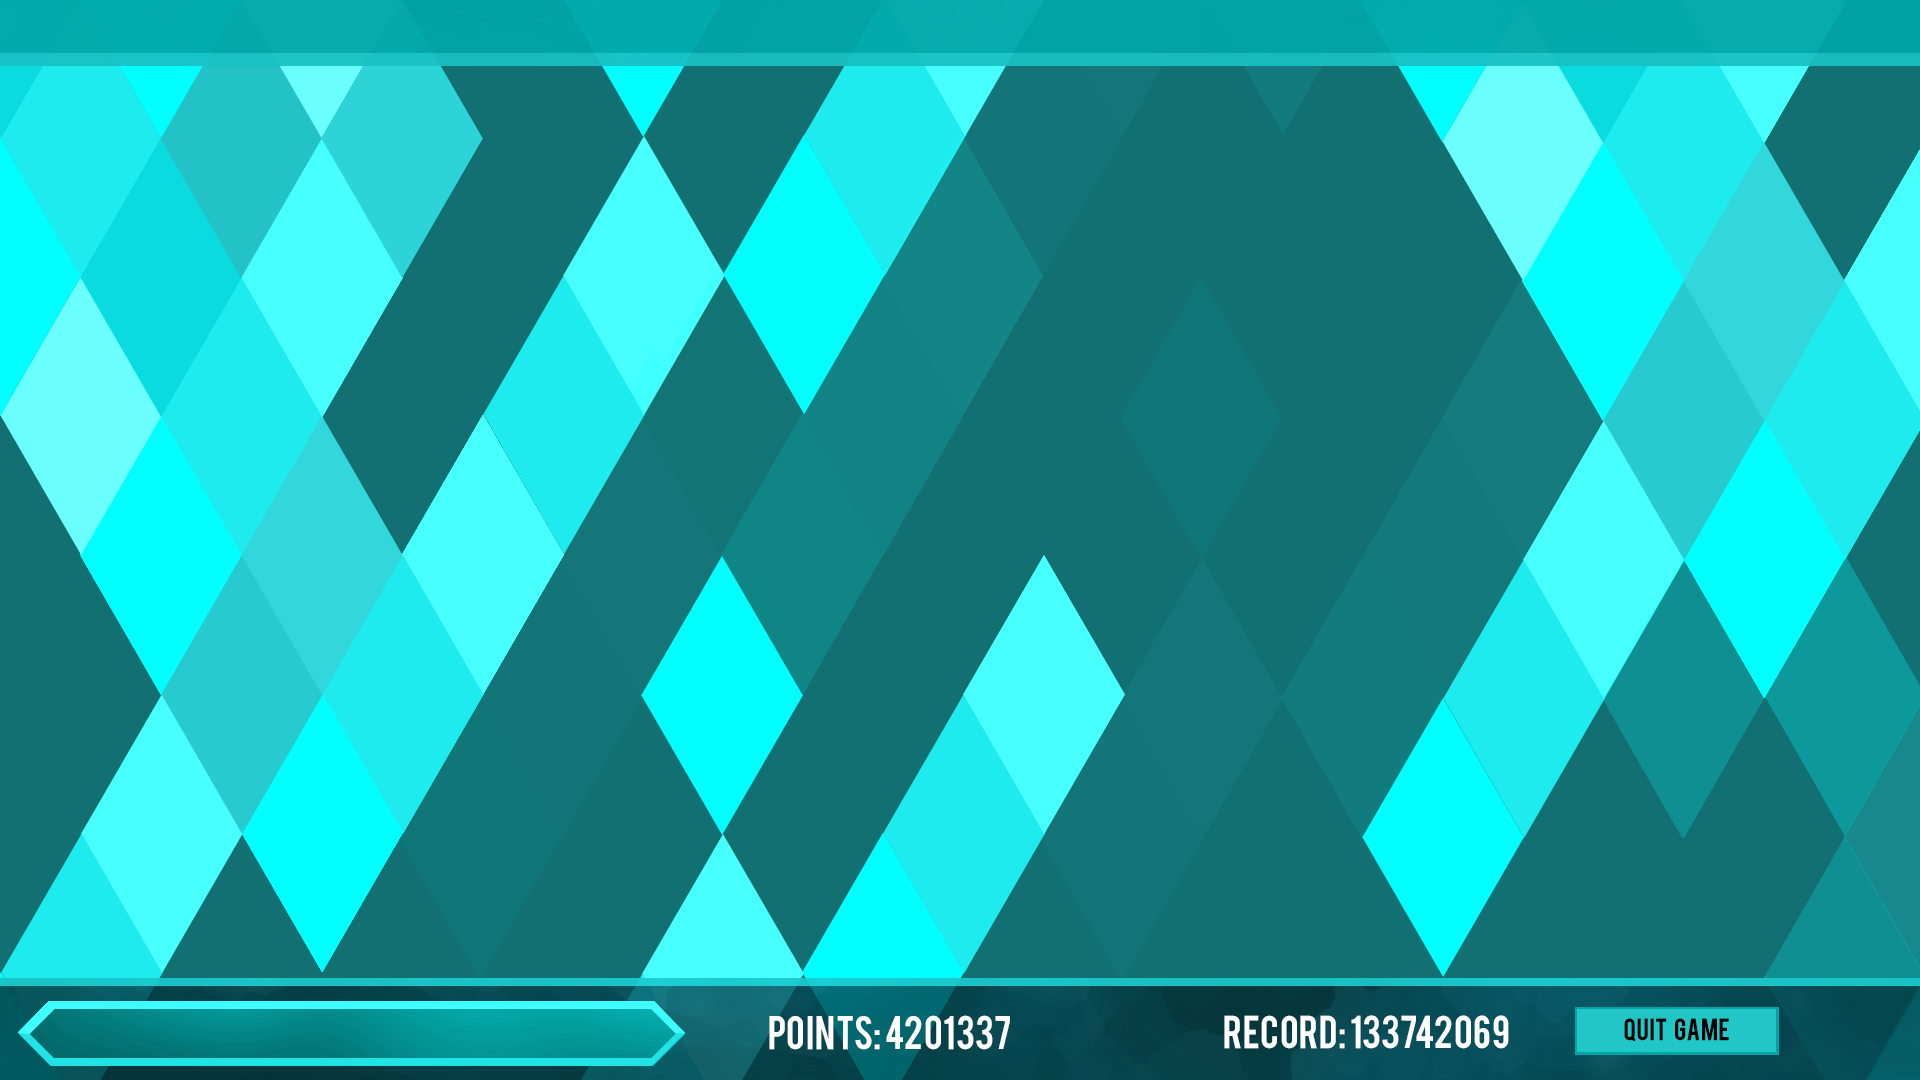
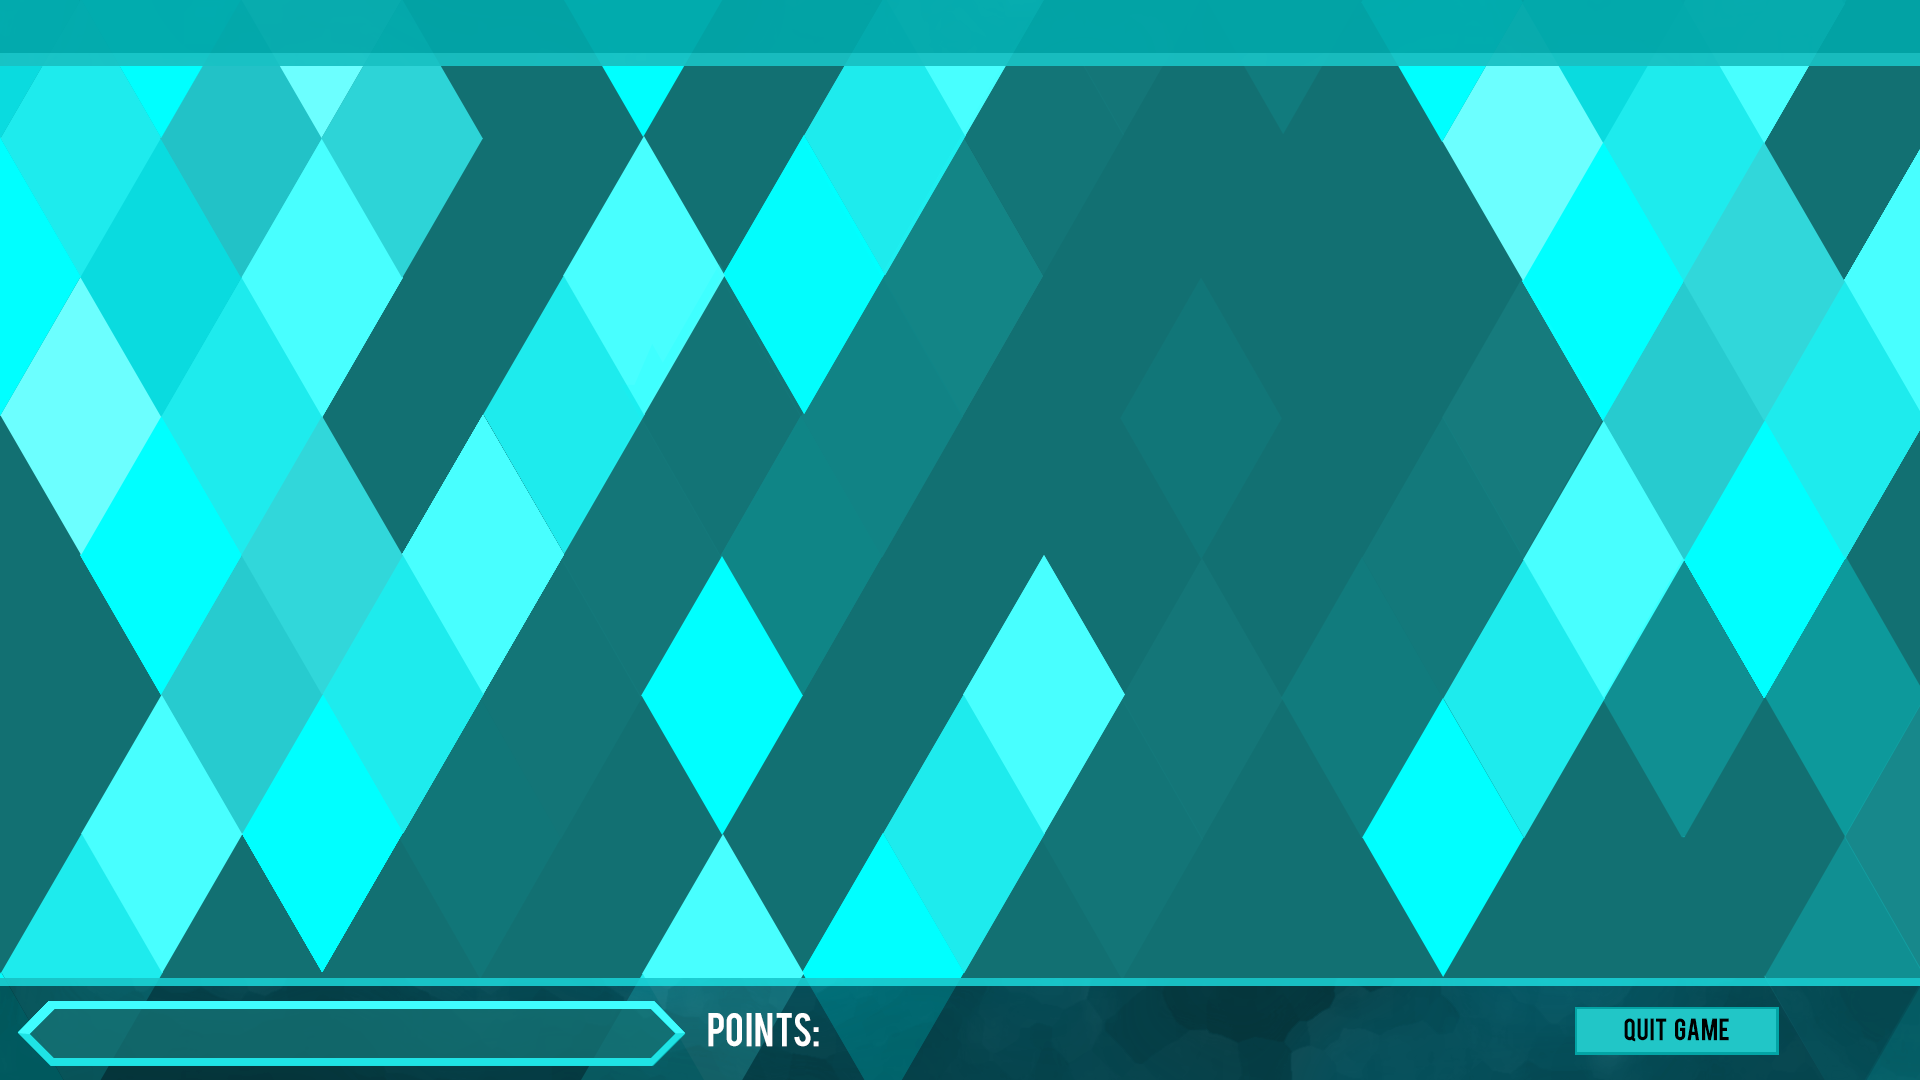
2017.06.14 cTile animations

Changed region(s): [[0.0625, 0.9167, 0.5312, 0.9778], [0.625, 0.9167, 0.7812, 0.9778]]

diff --git a/game.cpp b/game.cpp
@@ -15,22 +15,17 @@ cGame::cGame() //default constructor
 	:bricks(BRICKS_MAP_X, std::vector<cTile>(BRICKS_MAP_Y))
 {
 	done = false;
-//	opacity = 0;
 	currently_selected = 0;
 	score_count = 0;
 	game_state = REFRESH_GAME;
 	score = 0;
-	selection = false;
 	destroy_brick_flag = false;
-//	brick_size = BRICK_SIZE;
 	bricks_on_screen = BRICKS_MAP_X * BRICKS_MAP_Y;
 	area_width = BRICK_SIZE * BRICKS_MAP_X;
 	area_height = BRICK_SIZE * BRICKS_MAP_Y;
 	screen_width = SCREEN_X;//LEFT_MARGIN + area_width + RIGHT_MARGIN;
 	screen_height = SCREEN_Y;//TOP_MARGIN + area_height + DOWN_MARGIN;
-	left_game_area_margin = (screen_width - area_width) / 2;
-//	curFrame = 0;
-//	frameCount = 0;
+	//left_game_area_margin = (screen_width - area_width) / 2;
 	player_name = NULL;
 	al_init();
 	display = al_create_display(screen_width, screen_height);
@@ -93,7 +88,7 @@ cGame::cGame() //default constructor
 	button[MUSIC_MUTE_BUTTON].create(screen_width / 16+MUSIC_MUTE_X, screen_height / 4+MUSIC_MUTE_Y , 24, 24, GAME_AREA, ""); //remove magic numbers 414,580
 	button[SOUND_MUTE_BUTTON].create(screen_width - screen_width / 3+SOUND_MUTE_X, screen_height / 4 + SOUND_MUTE_Y, 24,24, GAME_AREA, "");//remove magic numbers 414,615
 	button[RESET_PROFILE_BUTTON].create(414, 655, 24, 24, GAME_AREA, "");//remove magic numbers
-	button[GAME_AREA_BUTTON].create(left_game_area_margin, TOP_MARGIN, area_width, area_height, GAME_AREA,"");
+	button[GAME_AREA_BUTTON].create(0, TOP_MARGIN, area_width, area_height, GAME_AREA,"");
 	button[OPTIONS_POPUP].create(screen_width / 16, screen_height / 4, al_get_bitmap_width(optionsPNG), al_get_bitmap_height(optionsPNG), RECTANGLE, "");//temp shit
 	button[HIGHSCORES_POPUP].create(screen_width / 16, screen_height / 4, al_get_bitmap_width(optionsPNG), al_get_bitmap_height(optionsPNG), RECTANGLE, "");//temp shit
 	button[NEW_STORY_BUTTON].opacity = 0.0;
@@ -130,18 +125,9 @@ void cGame::updateBrick()
 	for (int i = 0; i < BRICKS_MAP_Y; i++)
 		for (int t = 0; t < BRICKS_MAP_X; t++)
 		{
-			//if(bricks[t][i].state!=EMPTY)	
+			
 				bricks[t][i].update();
 		}
-}
-void cGame::drawScore()//draws score to the screen
-{
-	int f = 1;
-	//al_draw_textf(font36, BLACK, left_button_margin + BUTTON_WIDTH + 240-f, 8, ALLEGRO_ALIGN_RIGHT, " %i", on_screen_score);
-	//al_draw_textf(font36, BLACK, left_button_margin + BUTTON_WIDTH + 240+f, 8, ALLEGRO_ALIGN_RIGHT, " %i", on_screen_score);
-	al_draw_textf(font36, WHITE, left_button_margin  + 750, 1010, ALLEGRO_ALIGN_RIGHT, " %i", on_screen_score);
-	al_draw_textf(font36, WHITE, left_button_margin  + 200, 8, ALLEGRO_ALIGN_RIGHT, " selectionList.size:%i", selectionList.size());
-	al_draw_textf(font36, WHITE, left_button_margin  + 600, 8, ALLEGRO_ALIGN_RIGHT, " score:%i", score);
 }
 void cGame::clickButtons(int mouseButton)
 {
@@ -217,7 +203,7 @@ void cGame::clickButtons(int mouseButton)
 		if (game_state == PLAY_GAME) //if playing game check these clicks
 		{
 			//if (button[PLAY_BUTTON].mouseOver) { game_state = CHEAT; }
-			if (button[GAME_AREA_BUTTON].mouseOver)			{	changeTile((mouse.x - left_game_area_margin ) / BRICK_SIZE, (mouse.y - TOP_MARGIN) / BRICK_SIZE, 0);	} //debug	
+			if (button[GAME_AREA_BUTTON].mouseOver)			{	changeTile(mouse.x / BRICK_SIZE, (mouse.y - TOP_MARGIN) / BRICK_SIZE, 0);	} //debug	
 			else game_state = MAIN_MENU;
 		}
 		
@@ -242,7 +228,7 @@ void cGame::update()
 		{
 			mouse.x = event.mouse.x;//position in pixels
 			mouse.y = event.mouse.y;
-			mouse.bricksX = (mouse.x - left_game_area_margin) / BRICK_SIZE; // bricks[bricksX][bricksY]
+			mouse.bricksX = mouse.x  / BRICK_SIZE; // bricks[bricksX][bricksY]
 			mouse.bricksY = (mouse.y - TOP_MARGIN) / BRICK_SIZE;
 		}
 		else if (event.type == ALLEGRO_EVENT_MOUSE_BUTTON_DOWN) //checks if mouse button pressed
@@ -334,31 +320,30 @@ void cGame::changeTile(int x, int y, int color) //changes color of x,y tile
 void cGame::drawGameArea() // draw all bricks on screen;
 {
 	al_draw_bitmap(backgroundPNG,0, 0, NULL);
-	left_game_area_margin = (screen_width - area_width) / 2;
+	
 	for (int i = 0; i < BRICKS_MAP_Y; i++)
 		for (int t = 0; t < BRICKS_MAP_X; t++)
 		{
 			bricks[t][i].draw(bricksPNG,explosionPNG);
 		}
-	for (int i = 0; i<BRICKS_MAP_Y; i++)
-		for (int t = 0; t < BRICKS_MAP_X; t++)
-		{
-			//al_draw_textf(font18, BLACK, t*brick_size + left_game_area_margin, i*brick_size + TOP_MARGIN + screen_shake, NULL, "%i,%i", t,i); //debug: shows brick position in bricks[t][i] array
-			/*if (bricks[t][i].state == EXPLODING)
-			{
-				al_draw_bitmap_region(explosionPNG, 240 * curFrame, 0, 240, 240, (t - 2)*BRICK_SIZE + left_game_area_margin, (i - 2)*BRICK_SIZE + TOP_MARGIN, NULL);
-			}*/
-		}
+
+	for (unsigned int i = 0; i < selectionList.size(); i++)
+	{
+		bricks[selectionList[i].x][selectionList[i].y].draw(bricksPNG, explosionPNG);
+	}
 	
 	if (destroy_brick_flag)
 	{
 		int f = 2;
 		//al_play_sample(explosionOGG, 1, 0, 1.3, ALLEGRO_PLAYMODE_ONCE, NULL);
-		al_draw_textf(font36, BLACK, (last_clicked_x *BRICK_SIZE) + left_game_area_margin + (BRICK_SIZE / 2)-f, (last_clicked_y *BRICK_SIZE) + TOP_MARGIN -f, NULL, "%i", last_score);
-		al_draw_textf(font36, BLACK, (last_clicked_x *BRICK_SIZE) + left_game_area_margin + (BRICK_SIZE / 2) + f, (last_clicked_y *BRICK_SIZE) + TOP_MARGIN +f, NULL, "%i", last_score);
-		al_draw_textf(font36, WHITE, (last_clicked_x *BRICK_SIZE) + left_game_area_margin + (BRICK_SIZE / 2), (last_clicked_y *BRICK_SIZE) + TOP_MARGIN , NULL, "%i", last_score);
+		al_draw_textf(font36, BLACK, (last_clicked_x *BRICK_SIZE)  + (BRICK_SIZE / 2)-f, (last_clicked_y *BRICK_SIZE) + TOP_MARGIN -f, NULL, "%i", last_score);
+		al_draw_textf(font36, BLACK, (last_clicked_x *BRICK_SIZE) + (BRICK_SIZE / 2) + f, (last_clicked_y *BRICK_SIZE) + TOP_MARGIN +f, NULL, "%i", last_score);
+		al_draw_textf(font36, WHITE, (last_clicked_x *BRICK_SIZE) + (BRICK_SIZE / 2), (last_clicked_y *BRICK_SIZE) + TOP_MARGIN , NULL, "%i", last_score);
 	}
-	drawScore();
+	int f = 1;
+	al_draw_textf(font36, WHITE, 818, 1004, ALLEGRO_ALIGN_LEFT, " %i", on_screen_score);
+	al_draw_textf(font36, WHITE, 200, 8, ALLEGRO_ALIGN_RIGHT, " selectionList.size:%i", selectionList.size());
+	al_draw_textf(font36, WHITE, 600, 8, ALLEGRO_ALIGN_RIGHT, " score:%i", score);
 }
 void cGame::newGame(bool debug) // restart game
 {
@@ -434,7 +419,7 @@ void cGame::selectBrick() // takes mouse input and selects all same color bricks
 	last_clicked_x = mouse.bricksX;
 	last_clicked_y = mouse.bricksY;
 	int refresh = 0; 
-	if (!selection && bricks[x][y].state == FULL) //if not selected and full
+	if (selectionList.size()==0 && bricks[x][y].state == FULL) //if not selected and full
 	{
 		selectionList.clear();
 		cTile currentList;
@@ -474,12 +459,21 @@ void cGame::selectBrick() // takes mouse input and selects all same color bricks
 			}
 			selectionList[i].state = true;
 		}
-		if (selectionList.size() > 1)		{	selection = true;	}
-		else { selectionList.clear(); selection = false; }
-		
+		if (selectionList.size() < 2) selectionList.clear();
+		else
+		{
+			for (unsigned int i = 0; i < selectionList.size(); i++)
+			{
+				int x = selectionList[i].x;
+				int y = selectionList[i].y;
+				int color = bricks[x][y].color;
+				sPoint pos{ x,y };
+				bricks[x][y].create(pos, color);
+			}
+		}
 		currently_selected = 0;
 	}else 
-	if (selection && bricks[x][y].select) // else if selected
+	if (selectionList.size()>0 && bricks[x][y].select) // else if selected
 	{
 		destroy_brick_flag = true;
 		//selectionList.clear();
@@ -487,20 +481,21 @@ void cGame::selectBrick() // takes mouse input and selects all same color bricks
 		{
 			bricks[selectionList[i].x][selectionList[i].y].state = EXPLODING;
 		}
+		score += calculateScore();
+		last_score = calculateScore();
 		//for (int i = 0; i < BRICKS_MAP_X; i++)
 		//	for (int t = 0; t < BRICKS_MAP_Y; t++)
 		//	{
 		//		if (bricks[i][t].state == SELECTED) bricks[i][t].state = EXPLODING;//change selected to explosion status
 		//	}	
 	}else 
-		if (selection && bricks[x][y].state != SELECTED)
+		if (selectionList.size()>0 && bricks[x][y].state != SELECTED)
 		{
 			for (unsigned int i = 0; i < selectionList.size(); i++)
 			{
 				bricks[selectionList[i].x][selectionList[i].y].state = FULL;
 				bricks[selectionList[i].x][selectionList[i].y].select = false;
 			}
-			selection = false;
 			selectionList.clear();
 		selectBrick();
 		}
@@ -525,41 +520,28 @@ void cGame::deselectBrick() // clears selection of bricks
 }
 void cGame::destroyBrick() // after clicking selected bricks destroys them
 {
-	//curFrame++;
-	//int size = selectionList.size();
-	//for (int i = 0; i < selectionList.size(); i++)
-	//{
+
+	for (unsigned int i = 0; i < selectionList.size(); i++)
+	{
+		int x = selectionList[i].x;
+		int y = selectionList[i].y;
+
+		sPoint pos{ x,y };
+		if (bricks[x][y].resetCurFrame) { bricks[x][y].resetCurFrame = false;  bricks[x][y].create(pos, bricks[x][y].color); }
+	}
 	int x = selectionList[0].x;
 	int y = selectionList[0].y;
-	if (bricks[x][y].state == EMPTY) //if empty remove one item from
+	if (bricks[x][y].state == EMPTY) //if empty remove first item from selectionList
 	{
 			selectionList.erase(selectionList.begin());
 	}
-	//}
-	if (selectionList.size() ==0)	{	explosion_finish_flag = !explosion_finish_flag;	}
+	if (selectionList.size() ==0)		{	explosion_finish_flag = true; 	}
 
-		//bricks[x][y].update();
-	//}
-
-	/*
 	float explosion_volume = 0.3 + 0.05 * selectionList.size(); //more bricks, louder explosion
 	if (explosion_volume>1.5) explosion_volume = 1.5; // up to 150% volume
 	al_set_sample_instance_gain(instance, explosion_volume);
 	al_play_sample_instance(instance);
-	screen_shake = 0;
-	bool start_destroy = false;
-	last_score = calculateScore();
-	if (++frameCount >= frameDelay)
-	{
-		if (++curFrame >= maxFrame)
-		{
-			start_destroy = true;
-			curFrame = 0;
-		}
-		frameCount = 0;
-		screen_shake = (rand() % 6)-3; // -3 to 3 pixels in Y direction
-	}*/
-
+	
 	if (explosion_finish_flag)
 	{
 		for (int i = 0; i < BRICKS_MAP_Y; i++)
@@ -571,12 +553,12 @@ void cGame::destroyBrick() // after clicking selected bricks destroys them
 					bricks[t][i].state = EMPTY;
 				}
 			}
-		score+=calculateScore();
+		
 		dropBrick();
-		selection = false;
 		destroy_brick_flag = false;
-		screen_shake = 0;
+		screen_shake = 0.0;
 		selectionList.clear();
+		explosion_finish_flag = false;
 	}
 }
 int  cGame::calculateScore() //calculates score for destroyed bricks

diff --git a/game.h b/game.h
@@ -27,14 +27,14 @@ private:
 	int on_screen_score;//shown score
 	int score_count;
 	//int number_of_selected; //how many selected 
-	bool selection; //if something selected
+	//bool selection; //if something selected
 	bool saved_scores; //if high scores already saved
 	bool update_position;
 	int bricks_on_screen; //total number of bricks on screen
 	int area_width;//number of bricks in x axis * brick_size
 	int area_height;//number of bricks in y axis * brick_size
-	int left_button_margin;//where to start draw top buttons
-	int left_game_area_margin;// where to start draw game area
+	//int left_button_margin;//where to start draw top buttons
+	//int left_game_area_margin;// where to start draw game area
 	int screen_shake;// move everything on screen (in pixels)
 	//int frameCount;
 	//const int frameDelay = 0;
@@ -77,11 +77,11 @@ public:
 	int game_state; // using enum GAME_STATE to tell program in what state game is
 	cGame(); //default constructor
 	void updateBrick();//updates on_screen score
-	void drawScore();//draws score to the screen
+	//void drawScore();//draws score to the screen
 	void clickButtons(int mouseButton);
 	void update();
 	void resetHighScores();//resets and saves new high score file
-	void changeTile(int x, int y, int color); //changes color of x,y tile
+	void changeTile(int x, int y, int color); //changes color of x,y tile //DEBUG CAN REMOVE
 	void updateNumberOfSelected(); //checks and update number of selected brcisk
 	void drawGameArea(); // draw all bricks on screen
 	void newGame(bool debug); // restart game

diff --git a/tile.cpp b/tile.cpp
@@ -13,9 +13,11 @@ void cTile::create(sPoint position, int _color)
 	frameCount = 0;
 	curFrame = 0;
 	maxFrame = 60;
+	resetCurFrame = false;
 }
 void cTile::update()
 {
+	if (resetCurFrame) { resetCurFrame = false;curFrame=0; }
 	if (++frameCount >= frameDelay)
 	{
 		if (++curFrame >= maxFrame)
@@ -23,19 +25,16 @@ void cTile::update()
 			curFrame = 0;
 			if (state == EXPLODING)
 			{
-				curFrame = maxFrame;
+				//curFrame = maxFrame;
 				state = EMPTY;
-
 			}
 		}
 		frameCount = 0;
 	}
 	if (state == EXPLODING)
 	{
-		screen_shake = (rand() % 6) - 3; // -3 to 3 pixels in Y direction
-
+		screen_shake = (rand() % 4) - 2; // -3 to 3 pixels in both directions
 	}
-	//t*BRICK_SIZE + left_game_area_margin, i*BRICK_SIZE + TOP_MARGIN + screen_shake            (x,y)
 }
 void cTile::draw(ALLEGRO_BITMAP * bricksPNG, ALLEGRO_BITMAP * explosionPNG)
 {
@@ -49,7 +48,8 @@ void cTile::draw(ALLEGRO_BITMAP * bricksPNG, ALLEGRO_BITMAP * explosionPNG)
 	}
 	if (state == EXPLODING)
 	{
-		al_draw_bitmap_region(explosionPNG, 240 * curFrame, 0, 240, 240, (posX - 2)*BRICK_SIZE + screen_shake, (posY - 2)*BRICK_SIZE + TOP_MARGIN + screen_shake, NULL); //
+		al_draw_bitmap_region(explosionPNG, 240 * curFrame, 0, 240, 240, posX - (BRICK_SIZE*2+BRICK_SIZE/2)+screen_shake, posY - (BRICK_SIZE * 2 + BRICK_SIZE / 2) + screen_shake, NULL); //
+		al_draw_textf(font18, BLACK, posX, posY, NULL, "%i", curFrame);
 	}
 }
 //=====cList methods

diff --git a/tile.h b/tile.h
@@ -21,12 +21,12 @@ private:
 	float height;
 	float width;
 	float screen_shake;
-
 	int curFrame;
 	int frameCount;
 	int frameDelay;
 	int maxFrame;
 public:
+	bool resetCurFrame;
 	bool updated;
 	int color;
 	int state;
